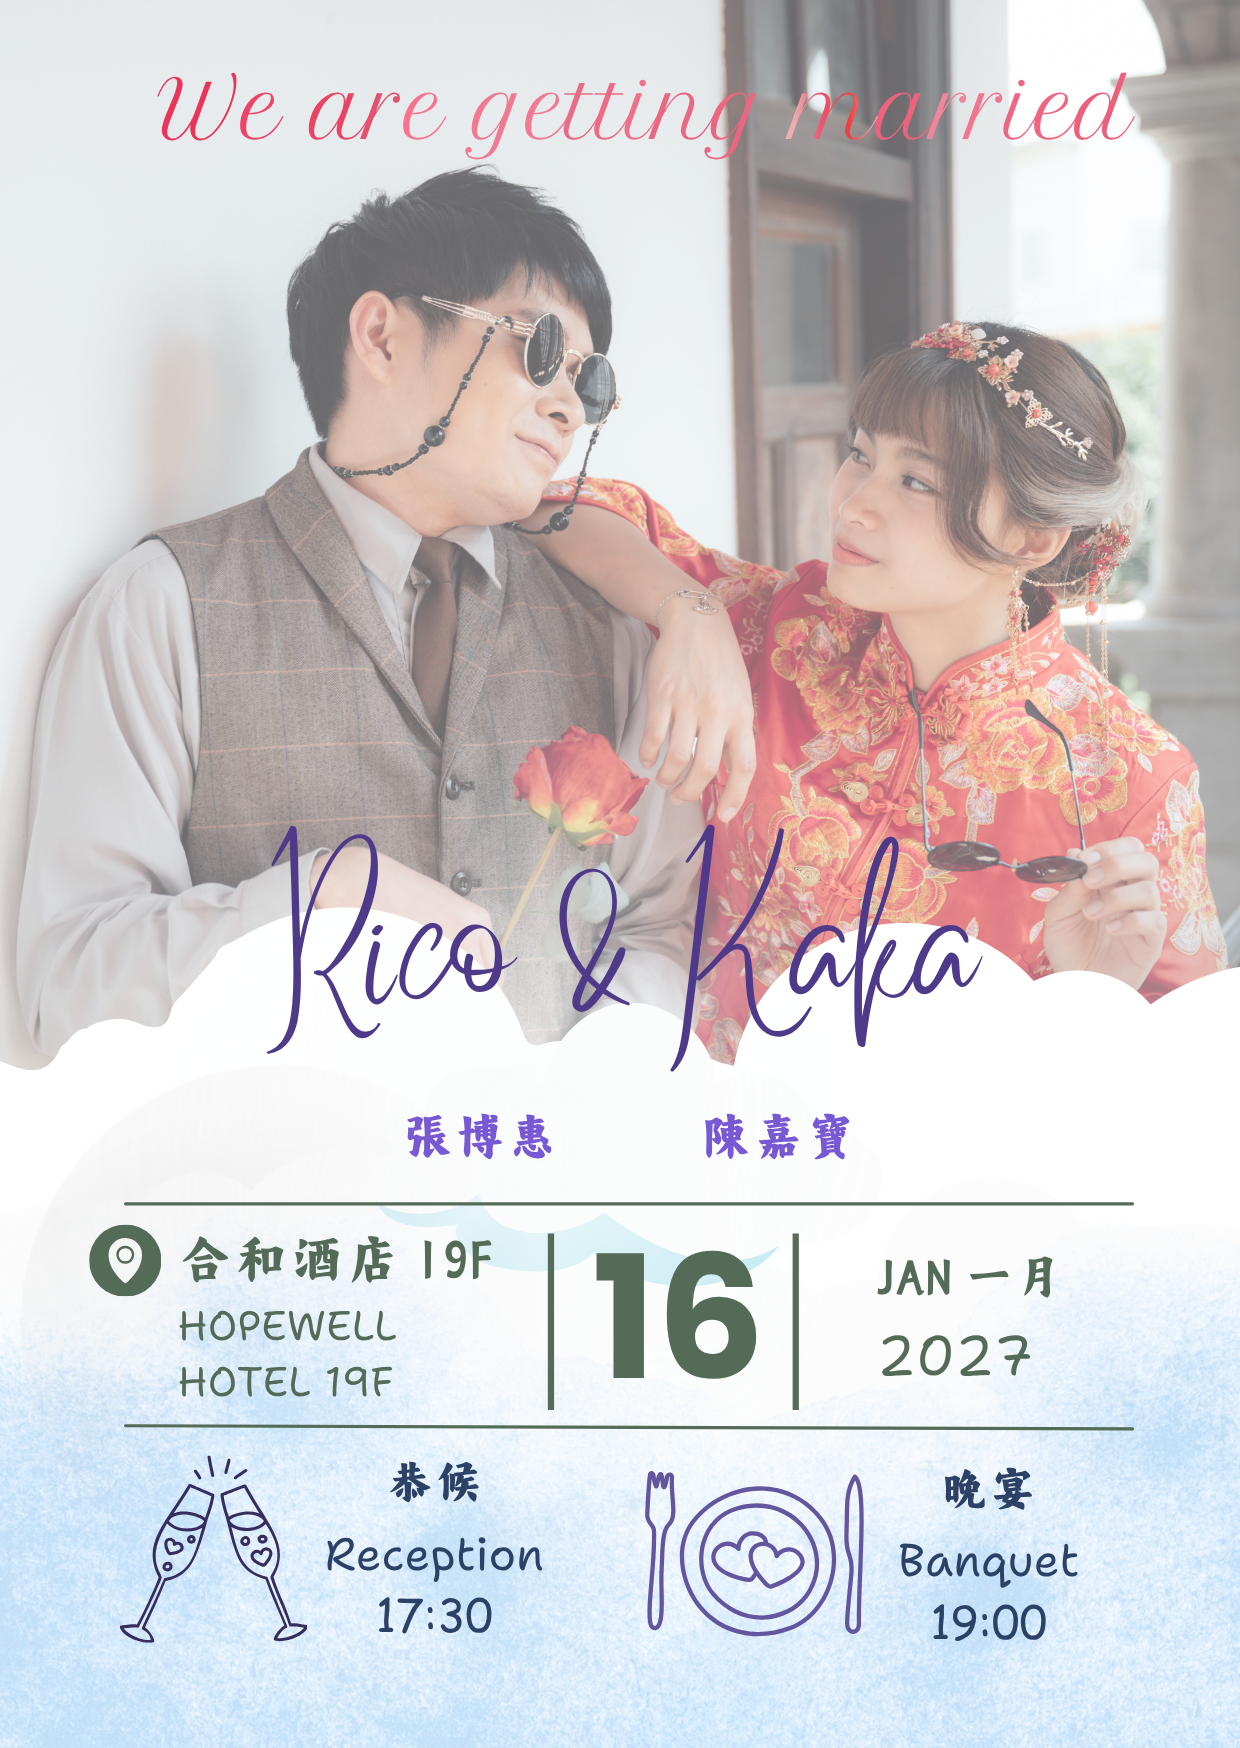
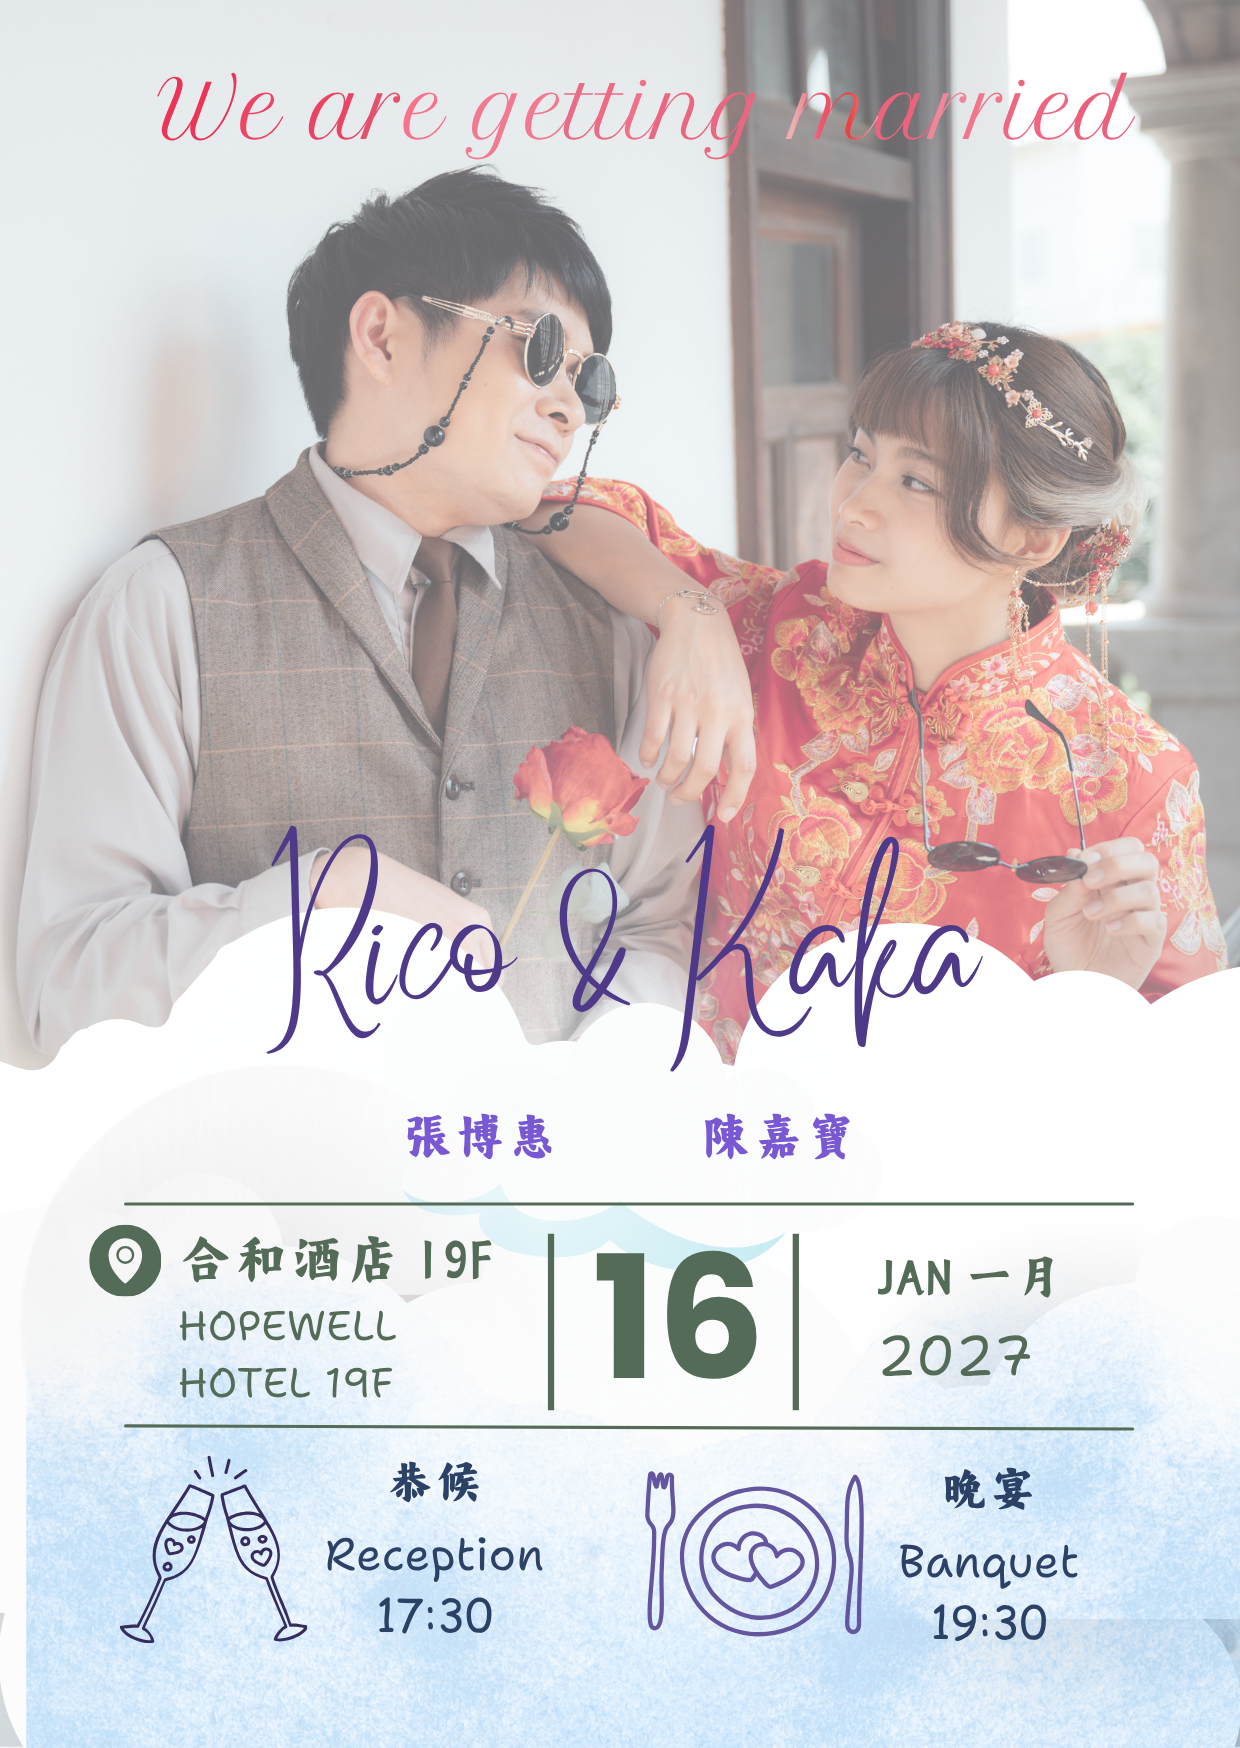
Add files via upload

diff --git a/index.html b/index.html
@@ -253,14 +253,14 @@
             <!-- 早到與打卡溫馨提示 -->
             <div class="reminder-text">
                 💡 <strong>溫馨提示：</strong><br>
-		<strong>得既話就早啲嚟，5 點恭候，<strong><br>
+		<strong>得既話就早啲嚟，5半恭候，<strong><br>
                 唔少遊戲同打卡<br>等住你嚟玩同欣賞 ga~<br>
                 冇咁早就既7半過嚟睇儀式，<br> 8點左右開餐<br>
                 <hr style="border: 0; border-top: 1px dashed #ccc; margin: 10px 0;">
                 <span style="font-size: 15px; color: #666;">
                     Remember to come early! <br>
-			Fun games & spot are waiting for ya @5pm!<br>
-			Or just come & join at 1930<br>
+			Fun games & spot are waiting for ya @1730!<br>
+			Or just come & join@1930<br>
                 </span>
             </div>
 
